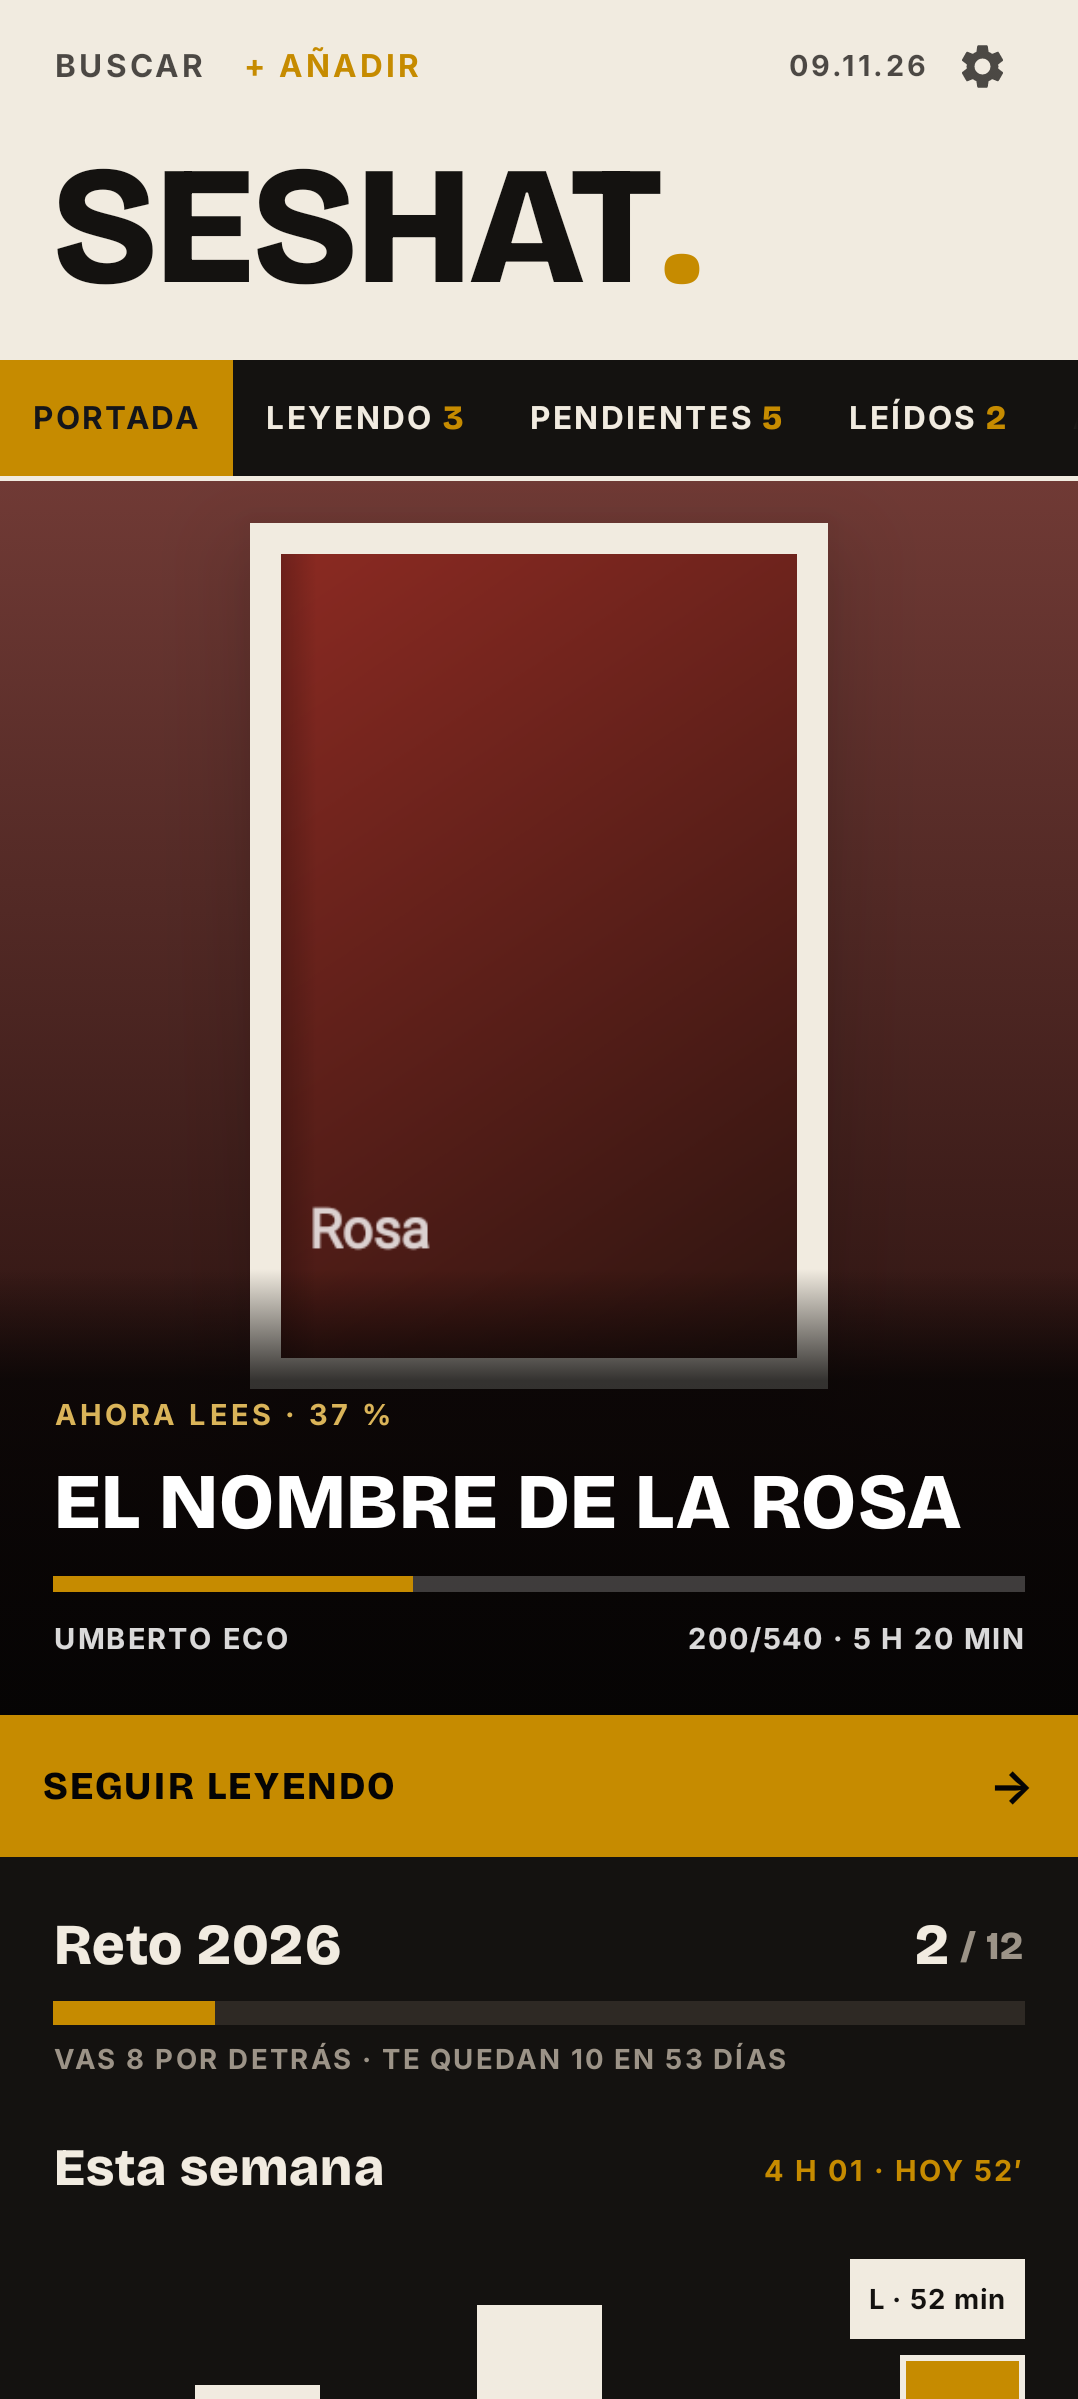
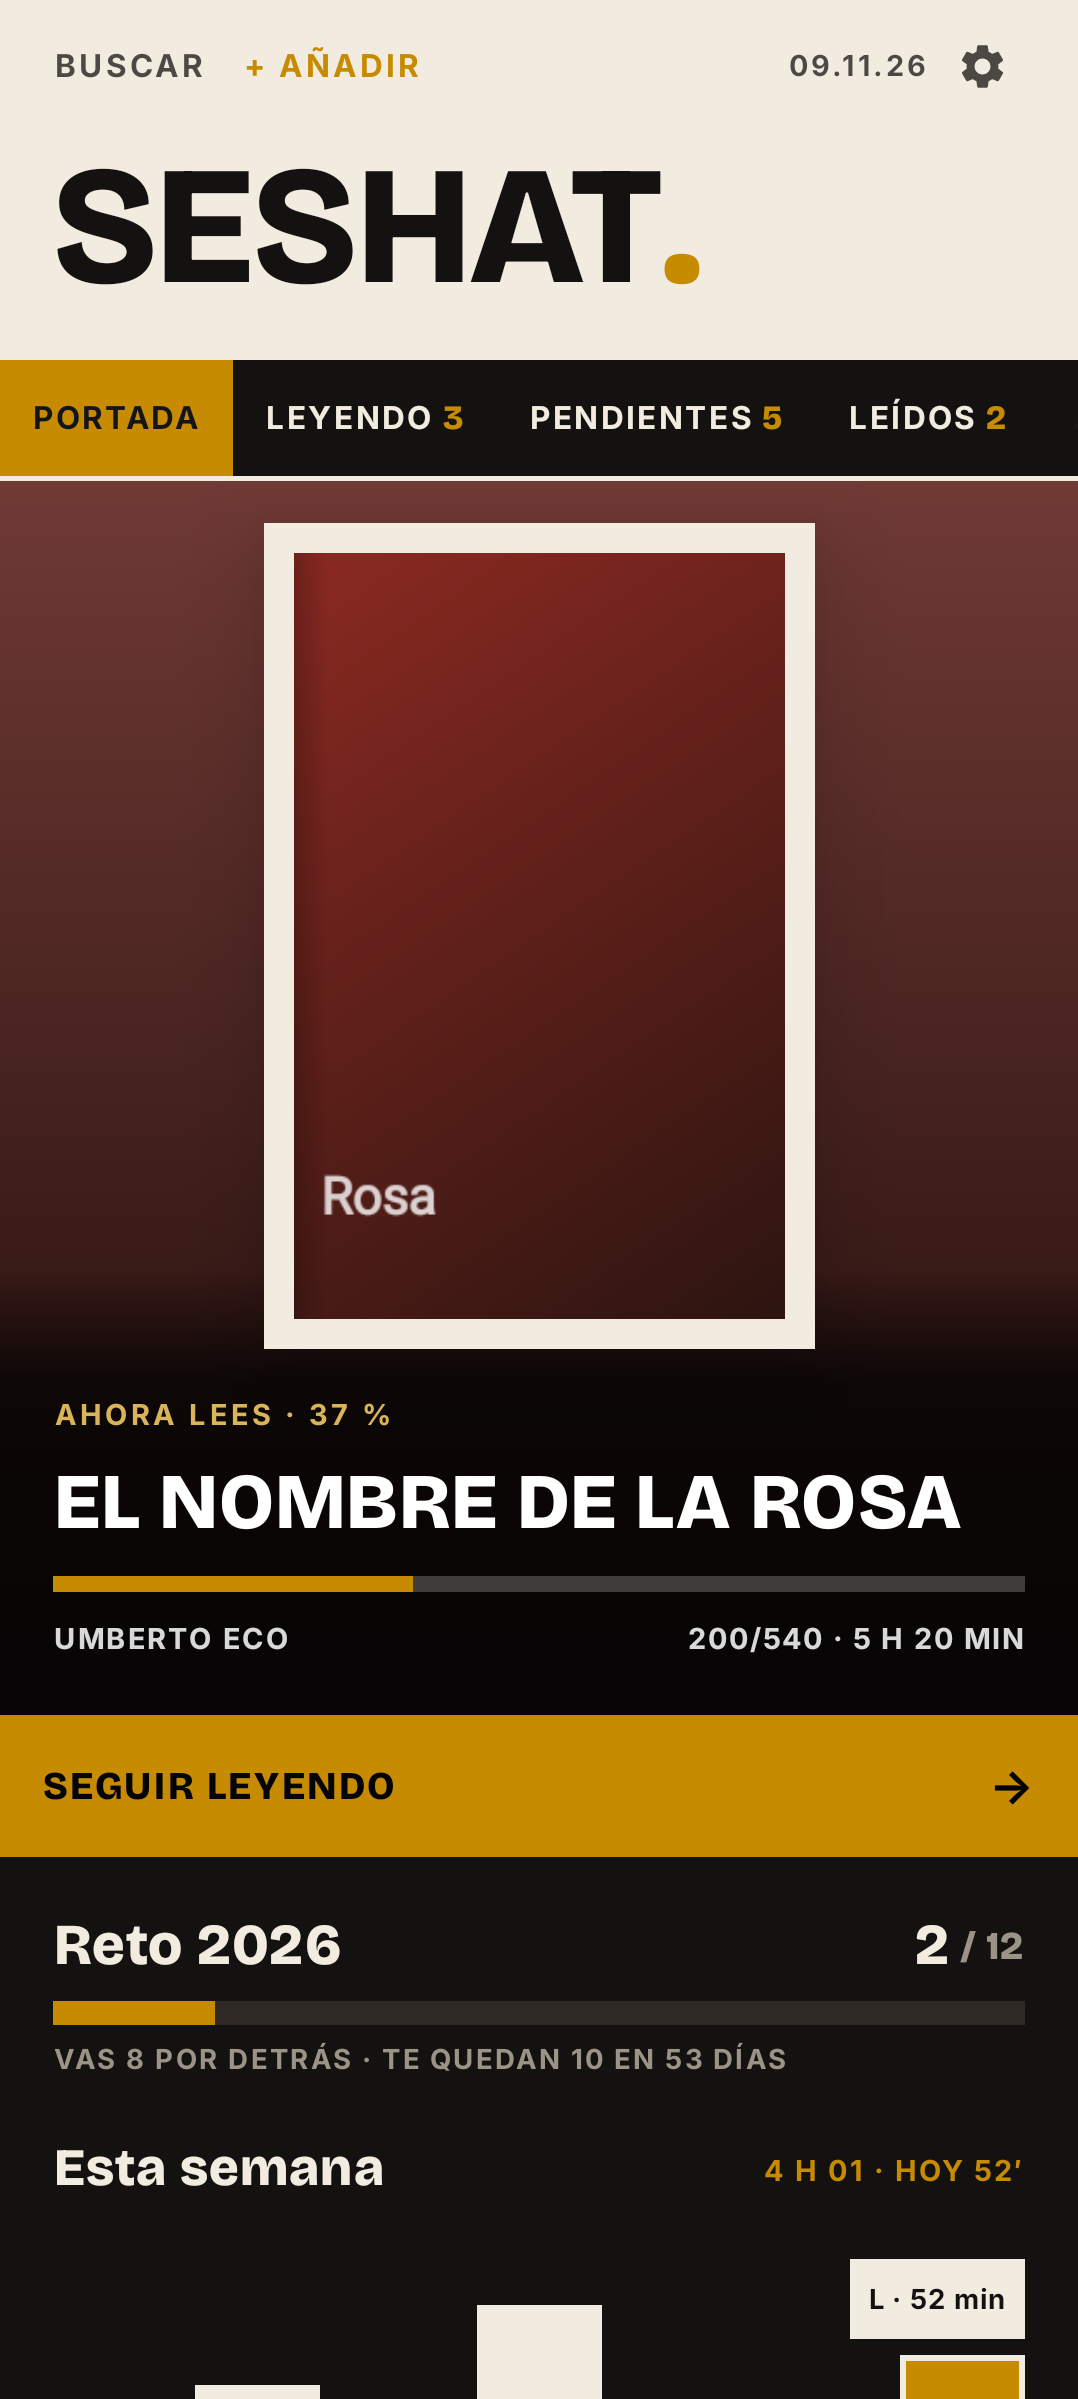
Seshat 0.20.2: la portada entera en el cartel y la cabecera sin hueco al plegarse
- Cartel: la portada con su paspartú va entera en el hueco de arriba y acaba
  antes del texto; el oscurecido de abajo queda detrás del texto, nunca encima.
- Cabecera: el nombre ya no se apaga a media altura; encoge con su hueco, así
  que la banda negra nunca queda vacía. Capturas del plegado por pasos.

Claude-Session: https://claude.ai/code/session_01Q4uywen3nuzUg5CTwJaCY5

Changed region(s): [[0.2143, 0.2159, 0.7653, 0.5861]]

diff --git a/marfil/src/main/java/com/gonzalo/marfil/PantInicio.kt b/marfil/src/main/java/com/gonzalo/marfil/PantInicio.kt
@@ -209,16 +209,23 @@ private fun Cartel(l: Libro, alAbrir: (Libro) -> Unit) {
     val claro = lerpColor(base, Color.White, 0.12f)
     val oscuro = lerpColor(base, Color.Black, 0.72f)
     val acentoClaro = lerpColor(Acento, Color.White, 0.35f)
-    // (la portada acaba justo donde empieza el texto: lo que lleve pintado abajo —título, autor— no se pisa con el del cartel)
+    // La portada (con su paspartú) va entera en el hueco de arriba y acaba antes del texto: el oscurecido solo queda detrás del texto, nunca
+    // encima de la portada (antes el degradado de abajo se comía el pie del marco y parecía cortado). El hueco se ajusta al tamaño de letra.
     Box(Modifier.fillMaxWidth().height(ALTO_CARTEL).background(Brush.verticalGradient(listOf(claro, oscuro))).clickable { alAbrir(l) }) {
-        if (l.fondo.isNotBlank()) {
+        val conFondo = l.fondo.isNotBlank()
+        if (conFondo) {
             // Con fondo elegido: el fondo ocupa el cartel (recortado) y la portada va encima, grande, arriba a la izquierda
             ImagenEncuadrada(l.fondo, l.encFondo, Modifier.fillMaxSize())
             Box(Modifier.fillMaxWidth().height(120.dp).background(Brush.verticalGradient(listOf(Color.Black.copy(alpha = 0.35f), Color.Transparent))))
-            PortadaSobreFondo(l, Modifier.align(Alignment.TopStart).padding(start = 20.dp, top = 20.dp).width(150.dp).height(225.dp), sombra = 22.dp)
-        } else PortadaSobreFondo(l, Modifier.align(Alignment.TopCenter).padding(top = 16.dp).width(220.dp).height(330.dp), sombra = 22.dp)
+        }
         Box(Modifier.align(Alignment.BottomCenter).fillMaxWidth().height(170.dp).background(Brush.verticalGradient(0f to Color.Transparent, 0.25f to Color(0xCC050404), 1f to Color(0xF2050404))))
-        Column(Modifier.align(Alignment.BottomStart).fillMaxWidth().padding(start = 20.dp, end = 20.dp, bottom = 18.dp)) {
+        Column(Modifier.fillMaxSize()) {
+        Box(Modifier.weight(1f).fillMaxWidth().padding(top = if (conFondo) 20.dp else 16.dp, bottom = 14.dp, start = 20.dp, end = 20.dp),
+            contentAlignment = if (conFondo) Alignment.TopStart else Alignment.TopCenter) {
+            val tope = if (conFondo) 225.dp else 330.dp
+            PortadaSobreFondo(l, Modifier.heightIn(max = tope).fillMaxHeight().aspectRatio(2f / 3f, matchHeightConstraintsFirst = true), sombra = 22.dp)
+        }
+        Column(Modifier.fillMaxWidth().padding(start = 20.dp, end = 20.dp, bottom = 18.dp)) {
             Text("AHORA LEES · ${porcentaje(l.fraccion)}", color = acentoClaro, fontFamily = Body, fontWeight = FontWeight.Black, fontSize = 11.sp, letterSpacing = 1.6.sp, maxLines = 1)
             Text(l.titulo.uppercase(), color = Color.White, fontFamily = Grotesca, fontWeight = FontWeight.ExtraBold, fontSize = 30.sp, lineHeight = 33.sp, maxLines = 2, overflow = TextOverflow.Ellipsis,
                 modifier = Modifier.padding(top = 4.dp))
@@ -228,6 +235,7 @@ private fun Cartel(l: Libro, alAbrir: (Libro) -> Unit) {
                 val derecha = listOf(Paginas.texto(l), if (l.msLeidos > 0) tiempo(l.msLeidos) else "").filter { it.isNotBlank() }.joinToString(" · ")
                 if (derecha.isNotBlank()) Text(derecha.uppercase(), color = Color.White.copy(alpha = 0.85f), fontFamily = Body, fontWeight = FontWeight.Black, fontSize = 11.sp, letterSpacing = 0.8.sp, maxLines = 1, modifier = Modifier.padding(start = 10.dp))
             }
+        }
         }
     }
 }

diff --git a/marfil/src/test/java/com/gonzalo/marfil/CapturasTest.kt b/marfil/src/test/java/com/gonzalo/marfil/CapturasTest.kt
@@ -251,6 +251,20 @@ class CapturasTest {
         foto("1c_portada_abajo")
     }
 
+    /** El plegado por pasos (≈25 %, 50 %, 75 % y 100 %): en cada paso la banda negra mide lo que el nombre, nunca un hueco vacío. */
+    @Test fun portadaPlegadoPorPasos() { org.junit.Assume.assumeTrue(System.getProperty("roborazzi.test.record") == "true"); siembra(); montar(false); pasos("1p") }
+    @Test @Config(sdk = [34], qualifiers = RobolectricDeviceQualifiers.Pixel7, fontScale = 1.3f) fun portadaPlegadoPorPasosLetraGrande() {
+        org.junit.Assume.assumeTrue(System.getProperty("roborazzi.test.record") == "true"); siembra(); montar(false); pasos("c9")
+    }
+    private fun pasos(prefijo: String) {
+        // (el primer gesto se come el umbral de arrastre; los siguientes mueven ~60 px cada uno, una cuarta parte del nombre)
+        listOf(25, 50, 75, 100).forEachIndexed { i, pct ->
+            val d = if (i == 0) 85f else if (pct == 100) 400f else 62f
+            rule.onRoot().performTouchInput { swipeUp(startY = centerY, endY = centerY - d, durationMillis = 900) }
+            foto("${prefijo}_plegado_$pct")
+        }
+    }
+
     @Test @Config(sdk = [34], qualifiers = RobolectricDeviceQualifiers.Pixel7, fontScale = 1.3f) fun portadaPlegandoLetraGrande() {
         org.junit.Assume.assumeTrue(System.getProperty("roborazzi.test.record") == "true")
         siembra(); montar(false)

diff --git a/marfil/src/main/java/com/gonzalo/marfil/Secciones.kt b/marfil/src/main/java/com/gonzalo/marfil/Secciones.kt
@@ -392,7 +392,8 @@ fun PantPrincipal(
                     if (h > 0) p.placeWithLayer(0, 0) {
                         scaleX = escala; scaleY = escala
                         transformOrigin = androidx.compose.ui.graphics.TransformOrigin(0f, 0f)
-                        alpha = ((escala - 0.35f) / 0.65f).coerceIn(0f, 1f)
+                        // (sin desvanecerse: el nombre ocupa siempre su hueco, que va menguando con él; antes se apagaba a media altura y
+                        // quedaba una banda negra vacía)
                     }
                 }
             }) {

diff --git a/marfil/src/main/java/com/gonzalo/marfil/PantEstilo.kt b/marfil/src/main/java/com/gonzalo/marfil/PantEstilo.kt
@@ -37,7 +37,7 @@ import androidx.compose.material3.TextButton
 import kotlinx.coroutines.Dispatchers
 import kotlinx.coroutines.withContext
 
-const val VERSION = "0.20.1"
+const val VERSION = "0.20.2"
 
 /** «Ajustes» en pestañas, como Atrio: Apariencia · Lectura · Cuenta (Atrio y libros en la nube) · Avanzado (actualizaciones y copias). */
 @OptIn(ExperimentalLayoutApi::class)

diff --git a/docs/marfil/HISTORIA.md b/docs/marfil/HISTORIA.md
@@ -79,6 +79,13 @@ Necesita JDK 17+ y el SDK de Android (`local.properties` con `sdk.dir`). Al saca
 
 ## Versiones
 
+## 0.20.2 — la portada entera en el cartel y la cabecera sin hueco
+
+- **Cartel:** la portada (con su paspartú) va entera en el hueco de arriba y acaba antes del texto; el oscurecido de abajo queda detrás
+  del texto y nunca encima de la portada (antes se comía el pie del marco y parecía cortado). El hueco se ajusta al tamaño de letra. Igual
+  con fondo elegido.
+- **Cabecera al plegarse:** el nombre ya no se apaga a media altura; encoge a la vez que su hueco, así que la banda negra nunca queda vacía.
+
 ## 0.20.1 — el reto y la semana en la portada, y el icono centrado
 
 - **Debajo de «Seguir leyendo»**, el reto del año: «Reto 2026 · 13 / 30», su barra y cómo vas («VAS 2 POR DETRÁS · TE QUEDAN 17 EN
